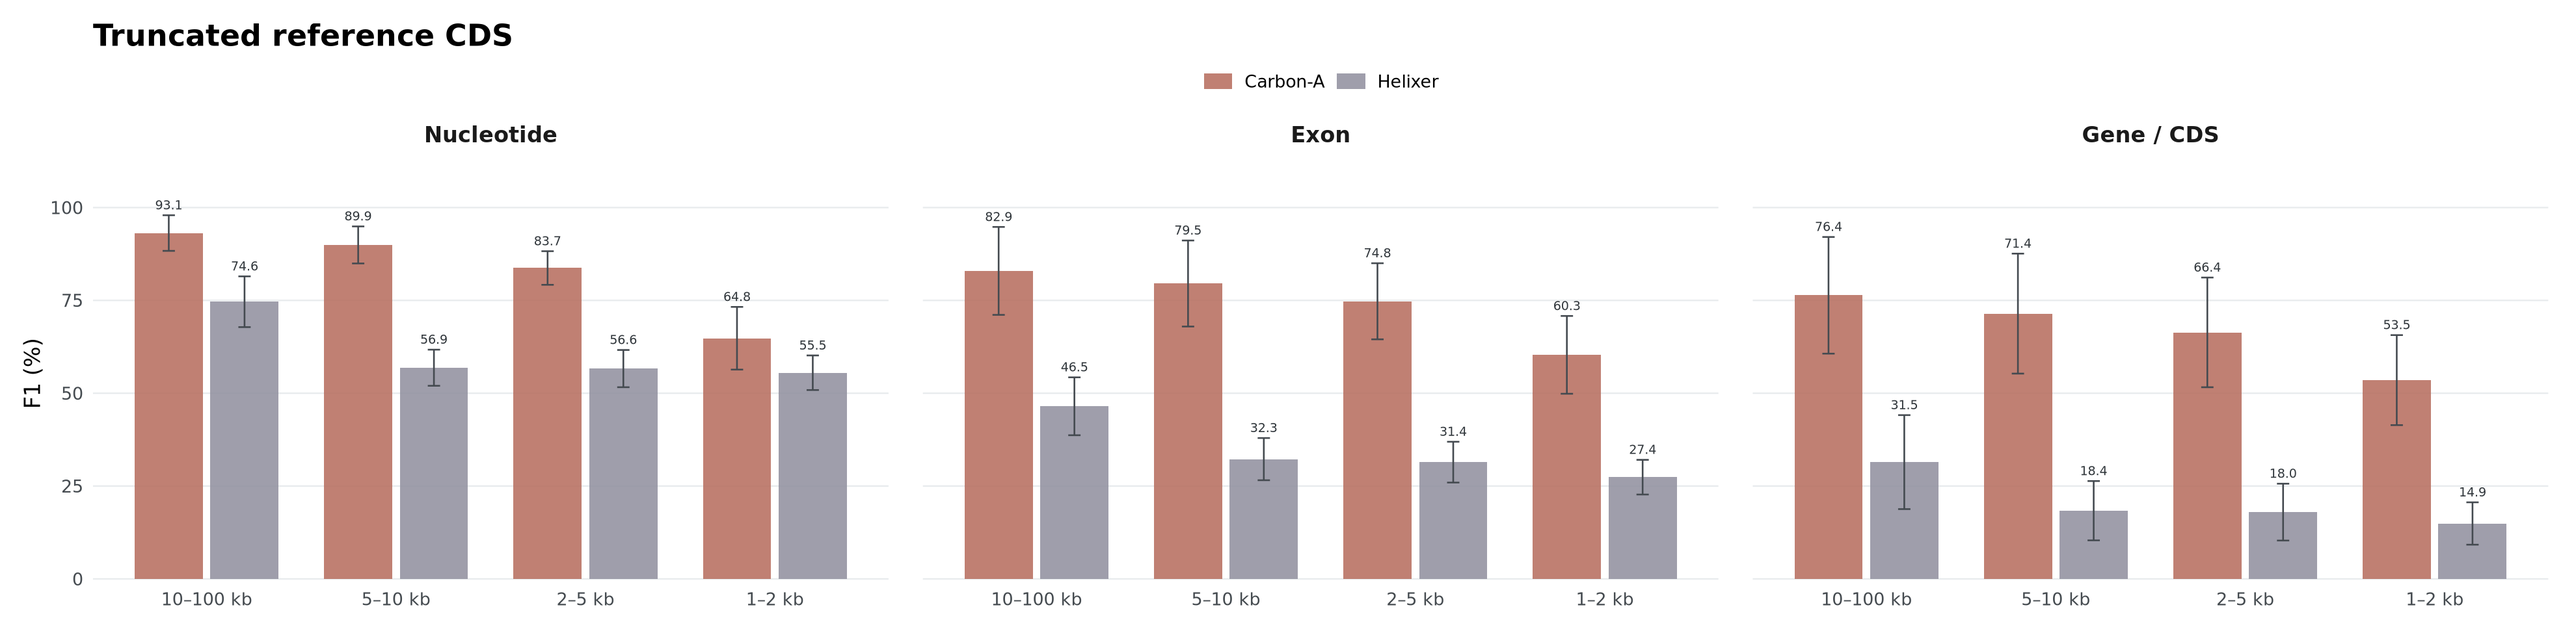
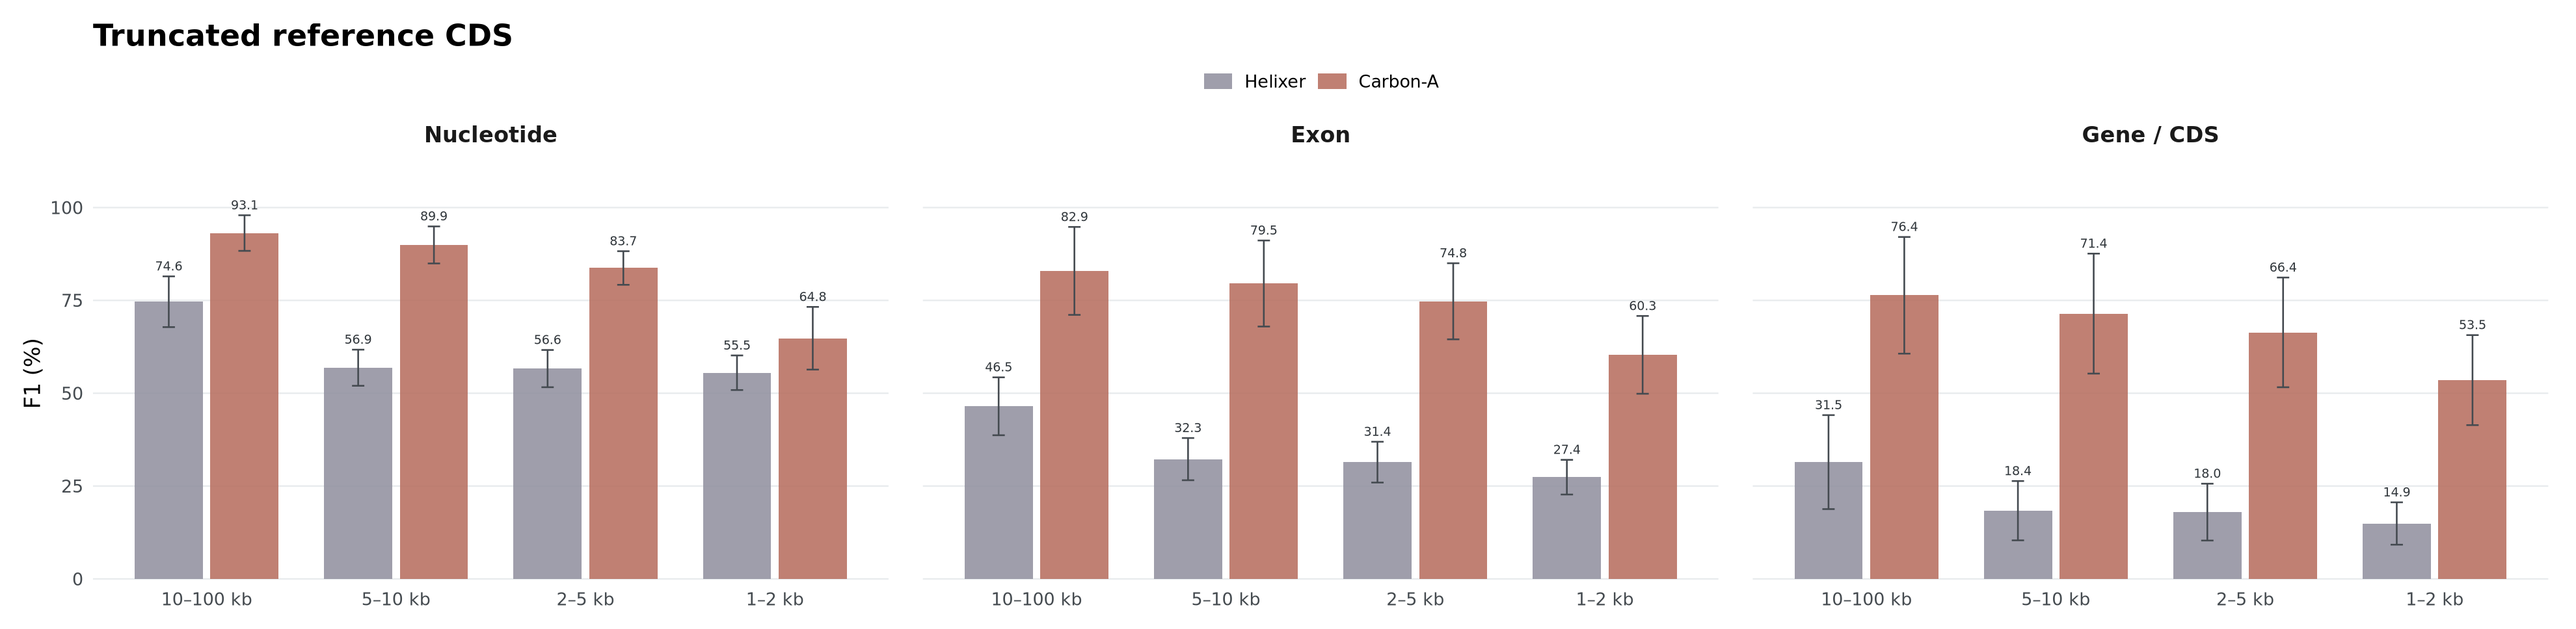
Restore reviewed README structure and present Helixer first

diff --git a/README.md b/README.md
@@ -1,33 +1,27 @@
 # Fungal gene calling benchmark
 
-Compare fungal gene prediction on original assemblies and whole-genome random fragments, using reference-defined complete and truncated CDS.
+## Introduction
 
-## Scope and completion
+We compare four deep learning–based *ab initio* gene predictors—[Helixer](https://github.com/usadellab/Helixer), [ANNEVO](https://github.com/xjtu-omics/ANNEVO), [Tiberius](https://github.com/Gaius-Augustus/Tiberius) and [Carbon-A](https://huggingface.co/HuggingFaceBio/Carbon-A-1.2B)—on 17 fungal genomes, from original assemblies to short random fragments. The benchmark evaluates complete CDS for all four tools and truncated CDS separately for Helixer and Carbon-A. Frozen inputs, native predictions and evaluation scripts are provided for reproduction.
 
-**17 fungal species × 5 input conditions × 4 tools = 340 completed and independently validated cases.** ANNEVO, Tiberius, Carbon-A and Helixer each have 85 cases. Inputs are original assemblies and whole-genome random partitions of 1–2 kb, 2–5 kb, 5–10 kb and 10–100 kb.
+Versions are frozen across all five input conditions.
 
-Complete reference CDS are compared across all four tools. Carbon-A and Helixer are also compared on truncated reference CDS, including missing 5′, missing 3′ and both ends. Frozen inputs, 340 native GFFs and checksums are available in the [v1.2 data release](https://github.com/WeStrainGroup/fungal_gene_calling_benchmark/releases/tag/v1.2).
+| Tool | Tested software | Model |
+| --- | --- | --- |
+| Helixer | v0.3.8; HelixerPost 0.4.0; GeenuFF 0.4.0 | `fungi_v0.3_a_0100.h5` |
+| ANNEVO | v2.3.3, commit [`42c920f`](https://github.com/xjtu-omics/ANNEVO/commit/42c920f70f52f96c7c06c665a639ec47d9304fff) | `ANNEVO_Fungi.pt` |
+| Tiberius | 2.0.7 | Official fungi weights, downloaded 2026-09-27 |
+| Carbon-A | Carbon-A-1.2B, pipeline/evaluator revision [`ee63599`](https://huggingface.co/HuggingFaceBio/Carbon-A-1.2B/tree/ee6359990109eef6adccfd19aba8ca64b48ae514) | Published 1.2B checkpoint |
 
-## Tested software and models
+## Evaluation
 
-Versions are frozen across all five input conditions. This benchmark does not claim that every predictor is the latest release. Official versions were checked on 2026-11-23.
+### Genomes and fragmentation
 
-| Tool | Tested software | Model | Official version check |
-| --- | --- | --- | --- |
-| ANNEVO | v2.3.3, commit [`42c920f`](https://github.com/xjtu-omics/ANNEVO/commit/42c920f70f52f96c7c06c665a639ec47d9304fff) | `ANNEVO_Fungi.pt` | Matches the current official main commit. |
-| Tiberius | **2.0.7** | Official fungi weights, downloaded 2026-09-27 | **Not the latest release:** [v2.0.9](https://github.com/Gaius-Augustus/Tiberius/releases/tag/v2.0.9) was published on 2026-10-05. |
-| Helixer | **v0.3.8**; HelixerPost **0.4.0**; GeenuFF **0.4.0** | `fungi_v0.3_a_0100.h5` | Latest formal release at the 2026-11-23 check; published that day. All 85 cases completed. |
-| Carbon-A | Carbon-A-1.2B, pipeline/evaluator revision [`ee63599`](https://huggingface.co/HuggingFaceBio/Carbon-A-1.2B/tree/ee6359990109eef6adccfd19aba8ca64b48ae514) | Published 1.2B checkpoint | Matches the revision displayed on the official repository; weights match its published SHA256. `1.2B` denotes model size, not a software version. |
+The 17 fungal RefSeq assemblies, accession versions and source datasets are listed in the [species table](metadata/species.tsv). Assemblies shared between source datasets are counted once. Training overlap is documented in [Datasets](docs/datasets.md); these are not uniformly unseen species.
 
-The ANNEVO, Tiberius and Carbon-A weight hashes and 61 recorded source fingerprints were rechecked against the running installation. Full hashes and dependencies are in [software metadata](metadata/software.json), [source fingerprints](metadata/source_sha256.json), and [Tiberius model provenance](metadata/tiberius_model_source.json). Carbon-A's Transformers compatibility changes are author-supplied and match its [official provenance](https://huggingface.co/HuggingFaceBio/Carbon-A-1.2B/blob/main/provenance.json); they are not an additional benchmark patch. Carbon-A uses SDPA rather than the authors' FlashAttention2 configuration, so inference is not claimed bit-identical. Helixer commits, dependencies and model hashes are in [Helixer metadata](metadata/helixer.json). Tiberius remains at 2.0.7 to match the existing WGS analysis; it was not upgraded for this extension. See [run settings](docs/run_predictors.md).
+Each genome is evaluated as its original assembly and as full-genome random partitions of 10–100 kb, 5–10 kb, 2–5 kb and 1–2 kb. Cut points are independent of gene positions. All tools receive identical DNA without RNA-seq or protein evidence. Exact inputs, annotations, genetic codes, seeds and fragment maps are included in the [data release](https://github.com/WeStrainGroup/fungal_gene_calling_benchmark/releases/tag/v1.2).
 
-## Inputs and evaluation
-
-The [species table](metadata/species.tsv) lists the 17 accession versions and selection sources. Helixer adds its six `test (used)` fungal species from Supplementary Table S17; Neurospora crassa is already present and reused, so five genomes are new. This is not a uniformly unseen-species benchmark; see [datasets and training exposure](docs/datasets.md).
-
-All tools receive identical nuclear DNA. Cut points are independent of gene positions. Existing accessions, annotations, genetic codes, seeds and fragment maps are frozen. Newly added species use an independent seeded random partition for each length condition. Every record is reconstructed and checksum-verified.
-
-Only records ≥1 kb enter scoring. Shorter original records are retained and counted. The 17-species set contains 690,727,699 bp. Its 771 records below 1 kb total 560,320 bp, all from Agaricus bisporus.
+Only records ≥1 kb enter scoring. Shorter original records remain in the release; *A. bisporus* has 771 such records totaling 560,320 bp.
 
 ### Complete and truncated reference CDS
 
@@ -35,8 +29,8 @@ A CDS is the spliced coding region of one transcript. Original reference CDS are
 
 | Class | Definition | Comparison |
 | --- | --- | --- |
-| Complete (C) | All original coding bases remain in the fragment. | ANNEVO, Tiberius, Carbon-A and Helixer. |
-| Truncated (T) | Some original coding bases fall outside the fragment. | Carbon-A and Helixer: Overall, missing 5′ end, missing 3′ end and missing both ends. |
+| Complete (C) | All original coding bases remain in the fragment. | Helixer, ANNEVO, Tiberius and Carbon-A. |
+| Truncated (T) | Some original coding bases fall outside the fragment. | Helixer and Carbon-A: Overall, missing 5′ end, missing 3′ end and missing both ends. |
 
 Completeness follows reference coordinates, not predicted status. A fragment may contain both classes, and a cut within an intron can truncate a CDS when coding exons lie outside the fragment.
 
@@ -50,7 +44,7 @@ The table summarizes reference gene–fragment instances across all 17 species a
 | 2–5 kb | 113,078 | 136,415 |
 | 1–2 kb | 51,192 | 275,133 |
 
-Per-species counts are available in the [metrics table](results/metrics.tsv), using `level=gene` and `reference`. Complete reference counts agree across all four tools; truncated counts agree between Carbon-A and Helixer (`stratum=partial`).
+Per-species counts are available in the [metrics table](results/metrics.tsv), using `level=gene` and `reference`. Complete counts agree across all four tools; truncated counts agree between Helixer and Carbon-A (`stratum=partial`).
 
 ### Prediction filters
 
@@ -58,7 +52,7 @@ Released models and native postprocessing are retained. The benchmark applies a 
 
 The confidence cutoff follows Carbon-A’s [reference-evaluation rule for genes](https://huggingface.co/HuggingFaceBio/Carbon-A-1.2B/blob/ee6359990109eef6adccfd19aba8ca64b48ae514/annotation_pipeline/README.md#reference-evaluation). Its native pipeline exports models before this filter and assigns NA to record-edge-truncated genes. We apply the same filtered prediction set at all three scoring levels; upstream applies confidence filtering only to gene/protein metrics.
 
-HelixerPost 0.4.0 exports partial models; its inherited `partial=true` flag is retained as audit metadata. Helixer has no Carbon-A confidence score, so that tool-specific filter is not applied to Helixer. No additional filter removes predictions for incorrect codons, phase or completeness status. [Run settings](docs/run_predictors.md) document the departures from defaults: Carbon-A’s input-length filter is disabled, its native 96 bp minimum CDS precedes the common cutoff, and Tiberius uses a 1,000 bp minimum input.
+Helixer’s native partial models are retained; the confidence cutoff applies only to Carbon-A. No additional filter removes predictions for incorrect codons, phase or completeness status. [Run settings](docs/run_predictors.md) document the departures from defaults: Carbon-A’s input-length filter is disabled, its native 96 bp minimum CDS precedes the common cutoff, and Tiberius uses a 1,000 bp minimum input.
 
 ### Scoring
 
@@ -75,91 +69,98 @@ Nucleotide and exon scoring use the longest eligible visible isoform per gene an
 Scoring regions follow reference CDS spans, including internal introns, on each record and strand:
 
 - Complete-reference regions and scoreable background form the main comparison; unmatched predictions count as FP.
-- Predictions wholly within truncated-reference regions enter the Carbon-A/Helixer truncated comparison; unmatched predictions count as FP within that scope.
+- Predictions wholly within truncated-reference regions enter the Helixer and Carbon-A truncated comparison; unmatched predictions count as FP within that scope.
 - Failed, too-short or ambiguously classified references and conflicting same-strand overlap regions are excluded. Predictions overlapping excluded regions or crossing truncated-scope boundaries are reported separately, without clipping. Unrecovered scoreable references still count as FN.
 
 Truncated precision and F1 are conditional on truncated-reference regions, not whole-genome estimates. Full isoform, phase and exclusion rules are in [Methods](docs/methods.md); [diagnostics](results/diagnostics.tsv) report background FP and excluded predictions.
 
 ## Results
 
-All 340 cases finished on 2026-11-24. Independent validation checked **1,603,921 gene true positives**, their native GFF coordinates/phase and gene-level count reconciliation; all 544 source files retained their checksums. R independently verified all **540 summary rows**. See [structural validation](results/independent_validation.json) and [summary validation](results/validation.json).
-
 ### Complete reference CDS
 
-Across 17 species, Carbon-A has the highest mean gene/CDS F1 on original assemblies, 10–100 kb and 5–10 kb inputs. Tiberius has the highest mean F1 at all three scoring levels on 2–5 kb and 1–2 kb inputs. At 5–10 kb, Tiberius leads nucleotide F1, while Carbon-A leads exon and gene/CDS F1. These are descriptive results on these species, not a uniformly unseen-species comparison or a statistical equivalence test.
+Across the 17-species means:
 
-Mean gene/CDS F1 (%):
+- Carbon-A achieves the highest F1 at all three levels for original assemblies and 10–100 kb inputs.
+- Tiberius achieves the highest F1 at all three levels for 2–5 kb and 1–2 kb inputs.
+- For 5–10 kb inputs, Tiberius has the highest nucleotide F1, while Carbon-A has the highest exon and gene/CDS F1.
+- Helixer and ANNEVO do not achieve the highest mean F1 in any of the 15 comparisons.
 
-| Input | ANNEVO | Tiberius | Carbon-A | Helixer |
-| --- | ---: | ---: | ---: | ---: |
-| Original | 57.8 | 60.9 | 72.6 | 48.1 |
-| 10–100 kb | 57.3 | 60.0 | 71.7 | 43.6 |
-| 5–10 kb | 53.8 | 58.9 | 60.4 | 32.0 |
-| 2–5 kb | 43.8 | 58.1 | 53.7 | 31.0 |
-| 1–2 kb | 20.6 | 54.7 | 37.0 | 27.7 |
+These are descriptive comparisons for the selected species, not evidence of statistical equivalence or performance on unseen species.
 
 ![Complete reference CDS](figures/complete_cds.png)
 
-Bars show species-equal mean F1; error bars show sample SD across 17 species. Each species is scored from its combined fragment counts before averaging; counts are not pooled across species. Undefined values remain NA. See [per-species TP/FP/FN and rates](results/metrics.tsv), [mean and SD](results/mean_sd.tsv), [input counts](results/inputs.tsv) and [filtering/background diagnostics](results/diagnostics.tsv).
+Bars show species-equal mean F1 and error bars show sample SD across 17 species. Each genome’s score is calculated from its combined TP/FP/FN across fragments; counts are not pooled across species. SD describes between-species variation. [Summary statistics](results/mean_sd.tsv) and [per-species results](results/metrics.tsv) include precision, recall and F1.
 
-### Truncated reference CDS
+### Helixer and Carbon-A on truncated reference CDS
 
-Carbon-A has higher mean F1 than Helixer at all three levels and all four fragment conditions. Mean gene/CDS F1 (%) within truncated-reference regions:
+Carbon-A achieves higher mean F1 than Helixer at all three levels across all four fragment conditions. Overall mean gene/CDS F1 is 31.5%, 18.4%, 18.0% and 14.9% for Helixer, compared with 76.4%, 71.4%, 66.4% and 53.5% for Carbon-A, for 10–100 kb, 5–10 kb, 2–5 kb and 1–2 kb inputs, respectively.
 
-| Input | Carbon-A | Helixer |
-| --- | ---: | ---: |
-| 10–100 kb | 76.4 | 31.5 |
-| 5–10 kb | 71.4 | 18.4 |
-| 2–5 kb | 66.4 | 18.0 |
-| 1–2 kb | 53.5 | 14.9 |
+![Helixer and Carbon-A on truncated reference CDS](figures/truncated_cds.png)
 
-![Truncated reference CDS](figures/truncated_cds.png)
+Helixer has higher exact gene/CDS F1 for CDS missing the 3′ end than for those missing the 5′ end or both ends; scores for the latter two types are near zero under the coordinate-and-phase matching criterion.
 
-Truncated precision/F1 are conditional on truncated-reference regions, not whole-genome estimates. Overall scores use the aggregate stratum within each species, not an average of truncation subtypes. Background FP and cross-scope predictions remain in the diagnostics.
+![Helixer on truncated reference CDS](figures/helixer_partial_cds.png)
 
-The subtype plots distinguish missing 5′, missing 3′ and both ends:
+For Carbon-A, CDS missing the 5′ end have higher mean F1 than those missing the 3′ end at all three levels. Missing both ends is substantially harder: mean gene/CDS F1 is 23.6% for 5–10 kb inputs, 24.1% for 2–5 kb inputs and 20.3% for 1–2 kb inputs.
 
-![Carbon-A truncation types](figures/carbon_partial_cds.png)
+![Carbon-A on truncated reference CDS](figures/carbon_partial_cds.png)
 
-![Helixer truncation types](figures/helixer_partial_cds.png)
-
-Helixer's exact gene/CDS scores are strongly asymmetric: missing-5′ and missing-both scores are near zero, whereas missing-3′ scores are substantially higher. This is the output under the shared coordinate-and-phase criterion; partial-output support alone does not establish accurate recovery of every truncation type. No 10–100 kb input has an eligible missing-both reference, so those cells are NA rather than zero. See `n_species` in the summary for each cell's denominator.
+Bars show species-equal mean F1 ± sample SD within truncated-reference regions. Overall uses aggregate truncated-region counts within each genome, including unresolved subtypes, rather than averaging subtype F1. NA means no eligible reference exists; no 10–100 kb case contains a scoreable CDS missing both ends.
 
 ## Reproduce
 
-### Get the code and redraw figures
+The published scores can be reproduced on CPU from released native predictions; GPU inference is optional. Run commands from the repository root.
+
+### Get the repository
 
 ```bash
-git clone --branch v1.2 --depth 1 https://github.com/WeStrainGroup/fungal_gene_calling_benchmark.git
+git clone --depth 1 https://github.com/WeStrainGroup/fungal_gene_calling_benchmark.git
 cd fungal_gene_calling_benchmark
 Rscript -e 'install.packages("ggplot2", repos="https://cloud.r-project.org")'
-Rscript scripts/plot_all_species.R results figures
-Rscript scripts/validate_summary.R results
 ```
 
-### Recalculate scores from native predictions
+### Redraw published figures
 
-Download `fungal_benchmark_data_v1.2.tar.gz` and `SHA256SUMS` from the [data release](https://github.com/WeStrainGroup/fungal_gene_calling_benchmark/releases/tag/v1.2). The archive contains the 17 frozen inputs/references, fragment maps, genetic codes and 340 native GFFs. Model weights, environments and intermediate probability arrays are not required. Verify and extract it in the repository root:
+```bash
+Rscript scripts/plot_all_species.R results figures
+```
+
+This uses the published summary in `results/` and writes PNG/PDF files to `figures/`. No data download or rescoring is required.
+
+### Recalculate scores
+
+Create a Python 3.12 environment, install dependencies and run the tests:
+
+```bash
+python3.12 -m venv .venv
+source .venv/bin/activate
+python -m pip install -r requirements.txt
+python -m unittest discover -s tests -v
+```
+
+Download `fungal_benchmark_data_v1.2.tar.gz` and `SHA256SUMS` from the [data release](https://github.com/WeStrainGroup/fungal_gene_calling_benchmark/releases/tag/v1.2). The approximately 1.70 GB archive contains all 17 genomes, annotations, fragment maps, genetic codes and 340 native prediction GFFs. Verify the archive and extracted-file checksums, then evaluate and independently validate the predictions:
 
 ```bash
 sha256sum -c SHA256SUMS
 tar -xzf fungal_benchmark_data_v1.2.tar.gz
 (cd data && sha256sum -c SHA256SUMS)
-python3.12 -m venv .venv
-source .venv/bin/activate
-python -m pip install -r requirements.txt
-python -m unittest discover -s tests -v
-
-python scripts/evaluate_stratified.py --data data --samples data/samples.tsv \
-  --cohort fungal_benchmark --output data/evaluation
+python scripts/evaluate_stratified.py --data data \
+  --samples data/samples.tsv --cohort fungal_benchmark --output data/evaluation
 python scripts/validate_stratified.py --data data --output data/evaluation
-python scripts/summarize_all_species.py --inputs data/evaluation \
-  --species data/samples.tsv --output data/results
-Rscript scripts/plot_all_species.R data/results data/results/figures
-Rscript scripts/validate_summary.R data/results
 ```
 
-Scoring is CPU-only; no repeated GPU inference is needed. On macOS, `shasum -a 256 -c` can replace `sha256sum -c`. Recalculated outputs stay under `data/`; published tables remain in `results/`. [Run settings](docs/run_predictors.md) describe native inference, and the [script registry](docs/methods.md#implementation) records the maintained scripts and completed checks.
+Summarize the validated results and plot:
+
+```bash
+python scripts/summarize_all_species.py --inputs data/evaluation \
+  --species data/samples.tsv --output combined_results
+Rscript scripts/plot_all_species.R combined_results combined_results/figures
+Rscript scripts/validate_summary.R combined_results
+```
+
+Recalculated tables, validation reports and figures are written under `combined_results/`; published tables remain in `results/`. The main outputs are `metrics.tsv` (per-species counts and rates), `mean_sd.tsv` (species-equal summaries) and `diagnostics.tsv` (filtering and exclusions).
+
+To run models on new inputs, see [Running the predictors](docs/run_predictors.md). The [script registry](docs/methods.md#implementation) and [validation evidence](results/validation.json) document the maintained implementation and completed checks.
 
 ## Contact
 
@@ -167,4 +168,6 @@ Xinyu Wang: [wangxinyu30@westlake.edu.cn](mailto:wangxinyu30@westlake.edu.cn)
 
 ## License
 
-Copyright © 2026 WeStrainGroup. [CC BY-NC-SA 4.0](https://creativecommons.org/licenses/by-nc-sa/4.0/) covers our benchmark scripts and documentation. The vendored Carbon-A evaluator retains its Apache 2.0 license; predictors, model weights and reference datasets retain their own terms. See [third-party notices](THIRD_PARTY.md).
+Copyright © 2026 WeStrainGroup.
+
+[CC BY-NC-SA 4.0](https://creativecommons.org/licenses/by-nc-sa/4.0/) for our benchmark scripts and documentation. The vendored Carbon-A evaluator retains its [Apache 2.0 license](vendor/carbon_a/LICENSE); external predictors, model weights and reference datasets retain their own terms. See [LICENSE](LICENSE) and [third-party notices](THIRD_PARTY.md).

diff --git a/docs/methods.md b/docs/methods.md
@@ -90,7 +90,7 @@ Current figures use R/ggplot2, `theme_minimal()`, the accepted muted palette, sp
 | `evaluate_stratified.py` | Reference strata, shared filtering, exact structural matching and metrics. | Four-tool support; inherited partial flag retained. |
 | `validate_stratified.py` | Independent native-GFF coordinate/phase checks, count reconciliation and hashes. | Supports both truncated-prediction tools. |
 | `summarize_all_species.py` | Deduplicate, verify selected tool/species grid, calculate species-equal mean/sample SD. | Four-tool grid regression passed. |
-| `plot_all_species.R` | Complete comparison, shared truncated comparison and subtype plots. | Four final figures generated; labels and layout inspected. |
+| `plot_all_species.R` | Complete comparison, shared truncated comparison and subtype plots. | Four final figures generated; Helixer is displayed first; scores and palette unchanged. |
 | `validate_summary.R` | Independently recompute means, sample SD and denominators in R. | All 540 expanded summary rows independently verified in R. |
 | `tests/test_stratified.py`, `tests/test_species_summary.py` | Scientific boundary and summary regression tests. | 34 tests passed; 30 real cases retain all 210 metric rows exactly, with 130,930 gene TPs independently checked. |
 
